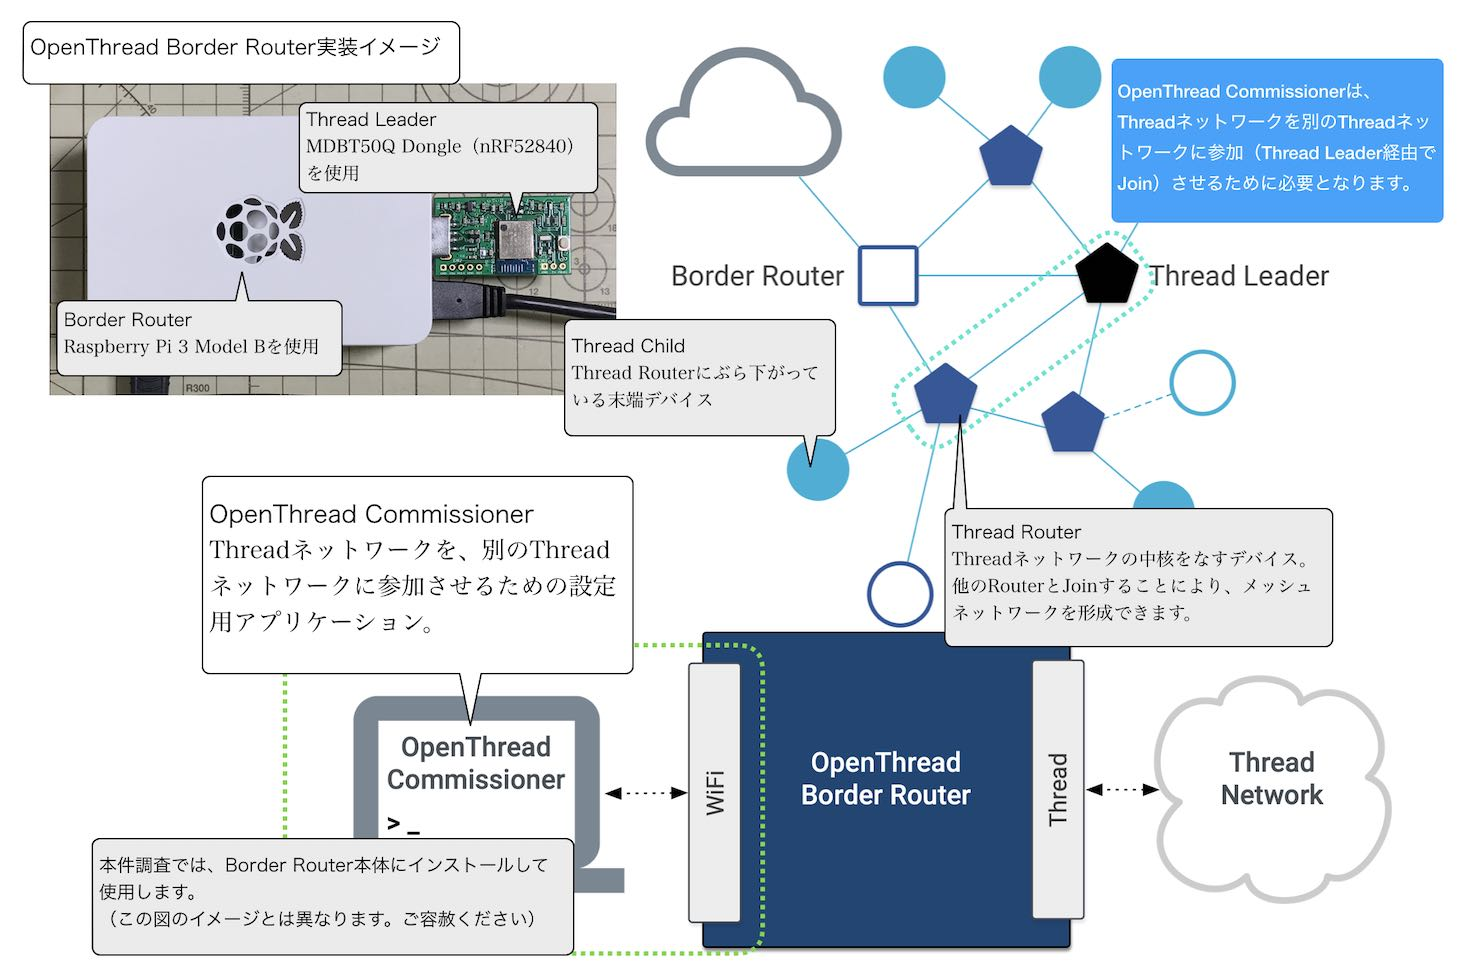
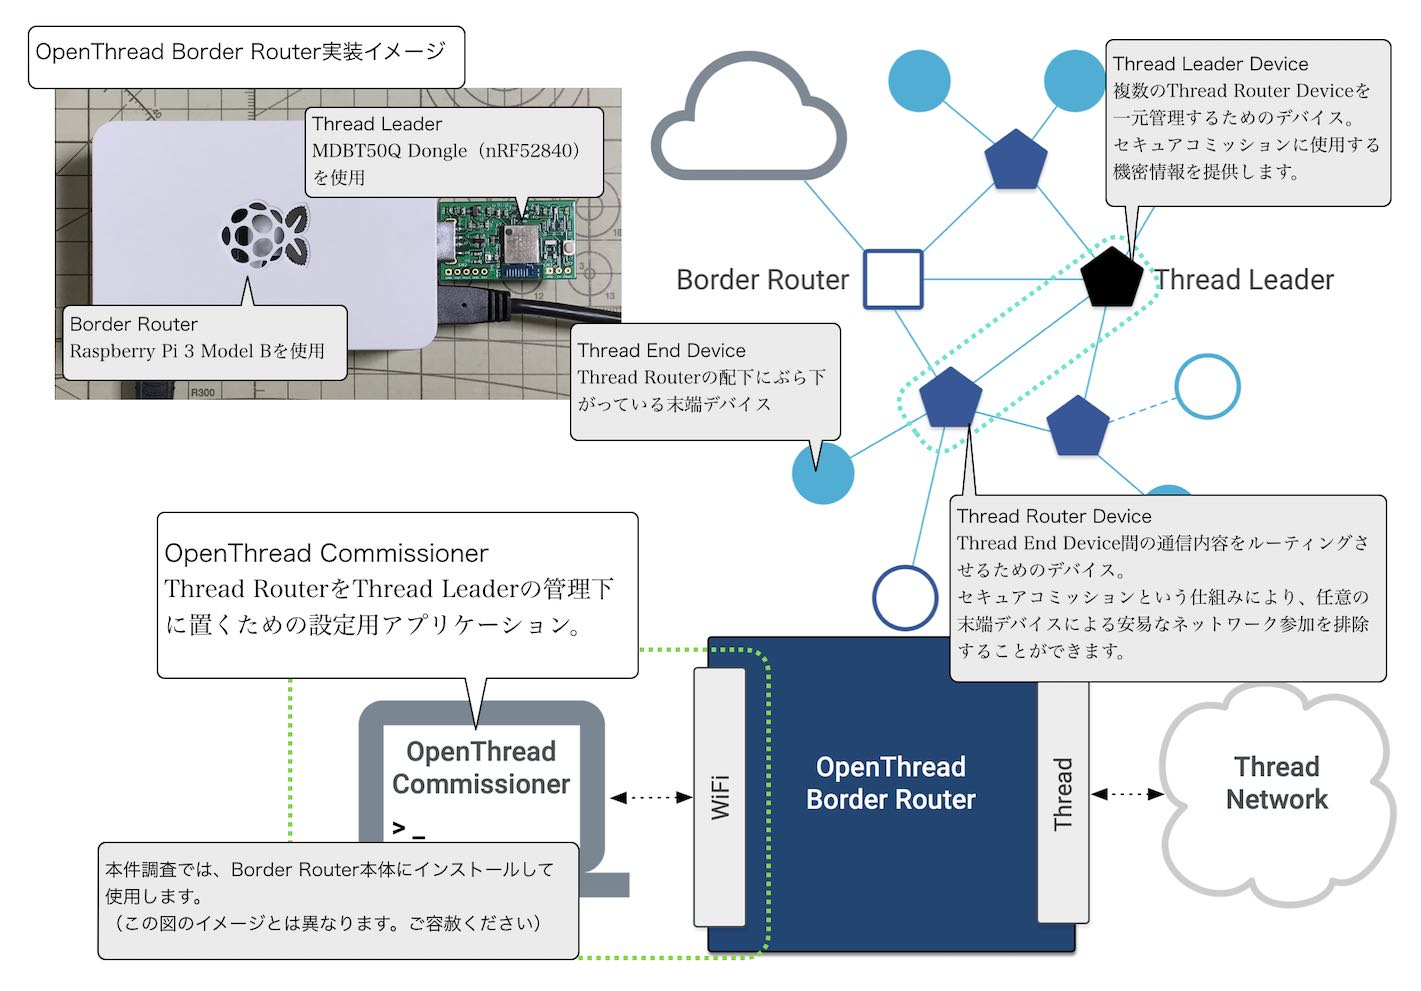
ドキュメントを修正
・OpenThread Commissionerについての説明を修正

Changed region(s): [[0.0, 0.0, 0.9909, 0.9806], [0.0929, 0.4903, 0.4335, 0.6435], [0.4025, 0.4903, 0.4335, 0.5209]]

diff --git a/Research/Matter/OTCOMMSETUP.md b/Research/Matter/OTCOMMSETUP.md
@@ -4,7 +4,7 @@
 
 ## 概要
 
-`OpenThread Commissioner`は、OpenThreadネットワークを、他のOpenThreadネットワークに参加（Join）させるために必要となる設定用アプリケーションです。
+`OpenThread Commissioner`は、Thread Routerデバイスを、Thread Leaderデバイスの管理下に配備（Join）させるために必要となる設定用アプリケーションです。
 
 <img src="assets01/0022.jpg" width=600>
 
